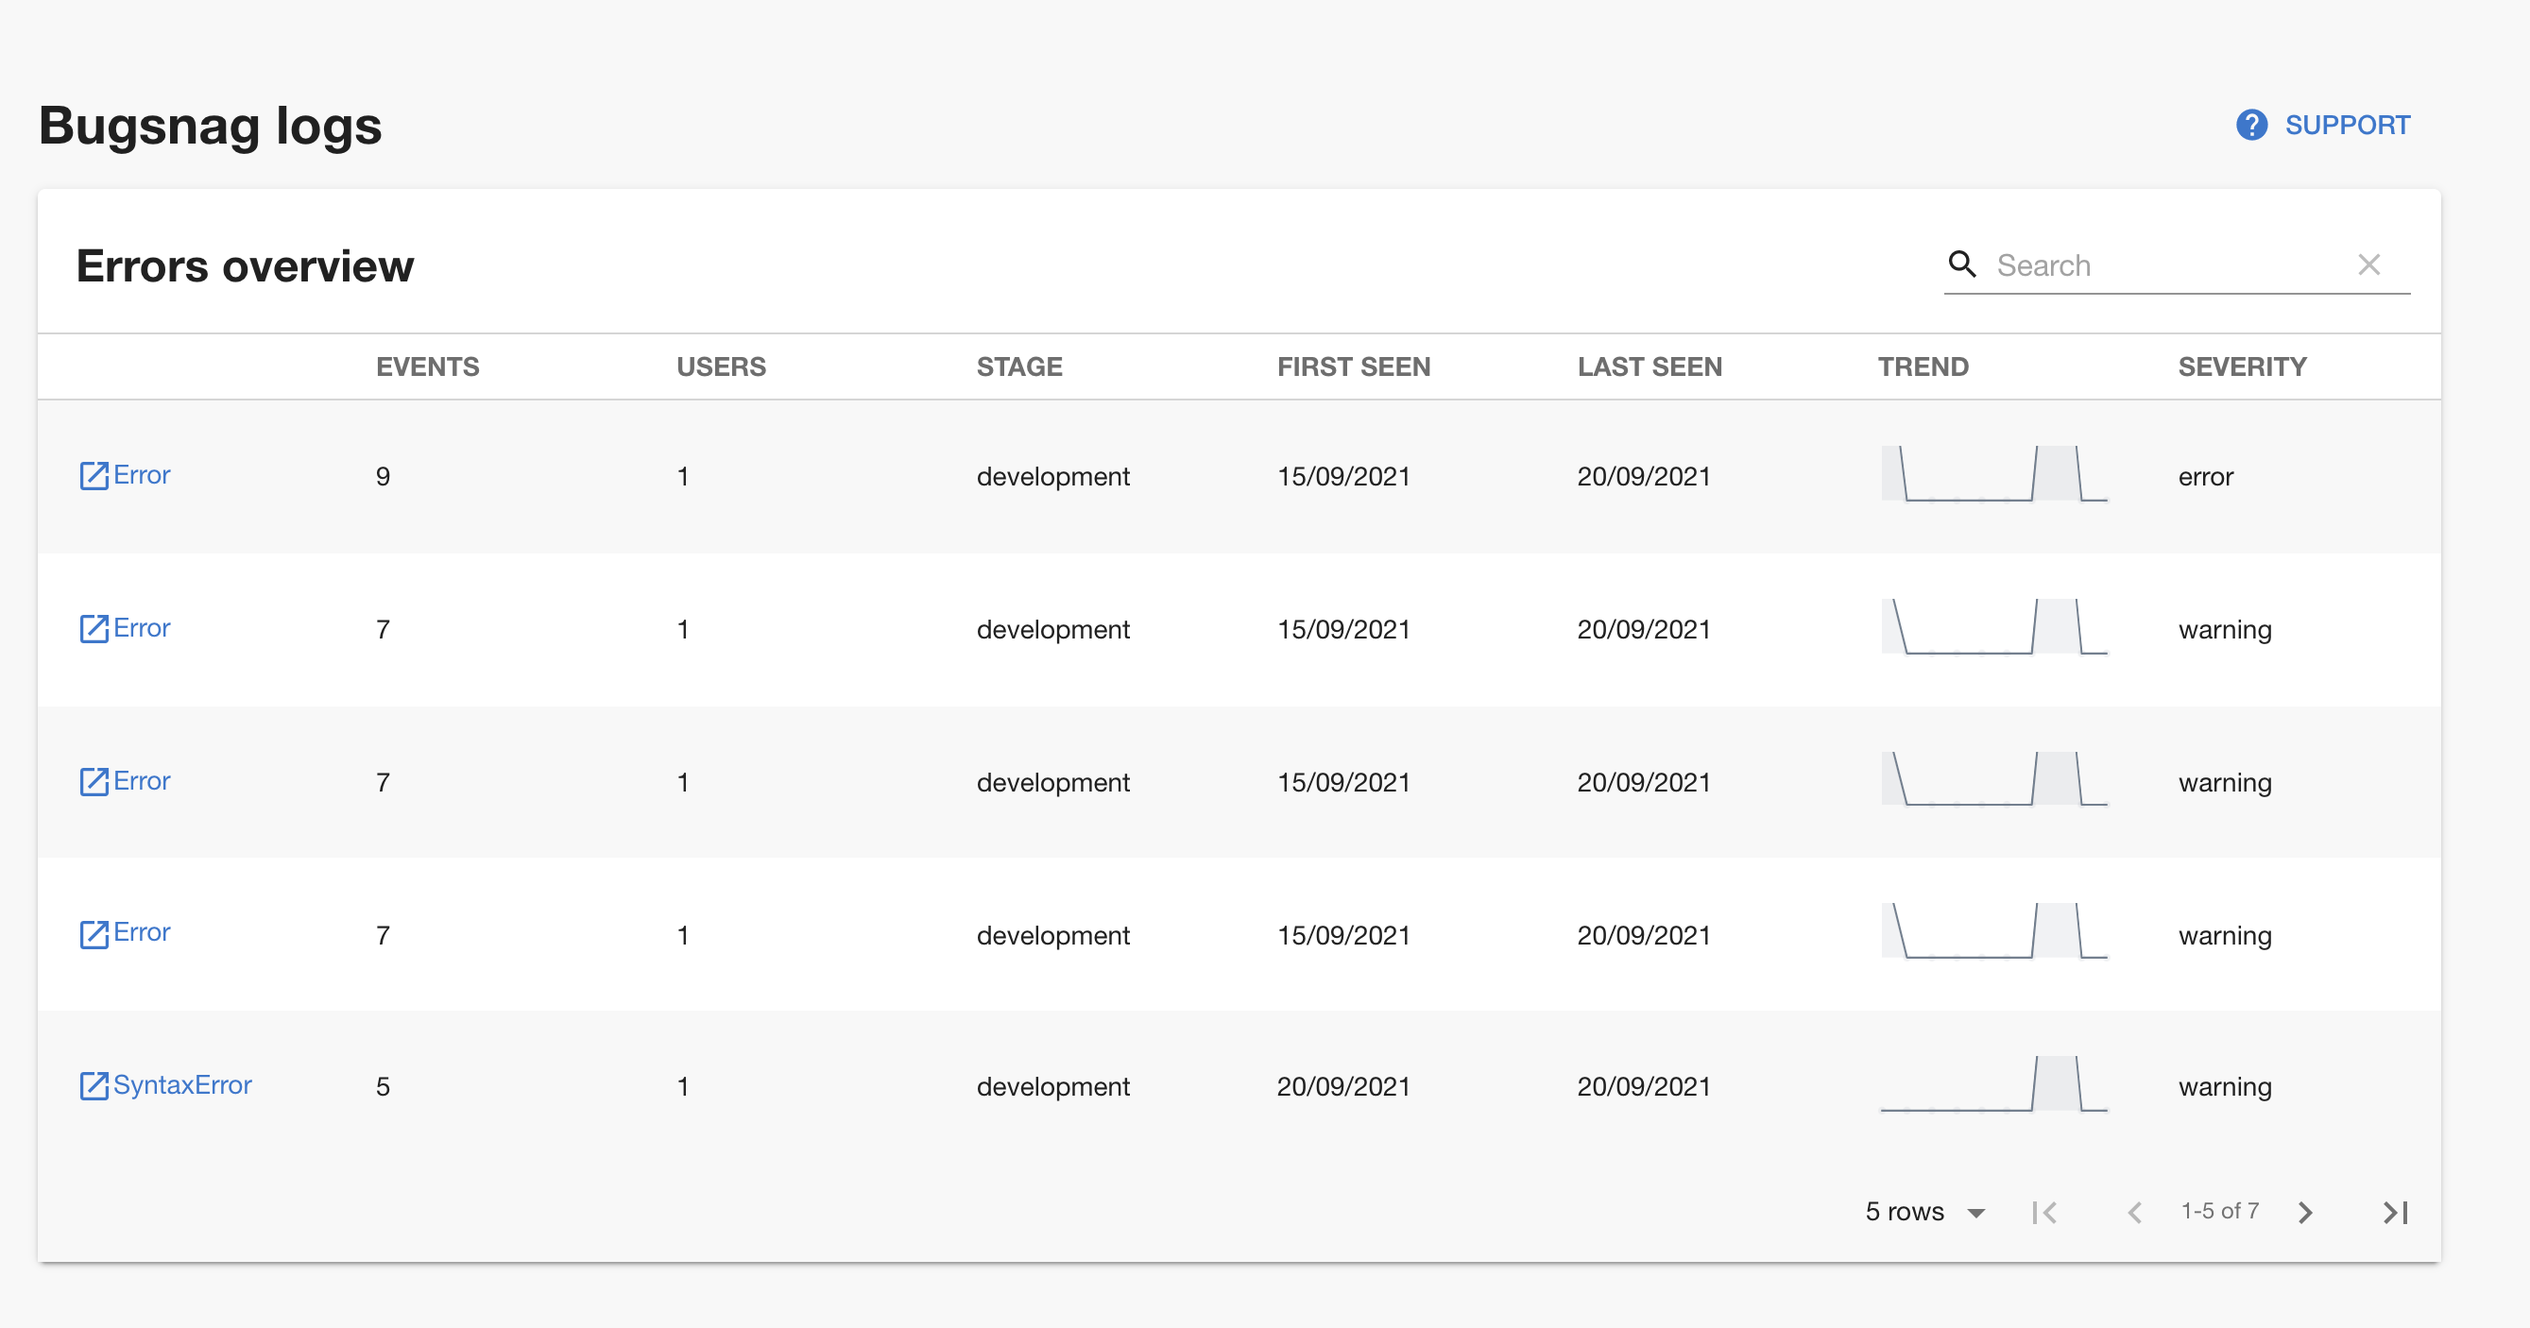
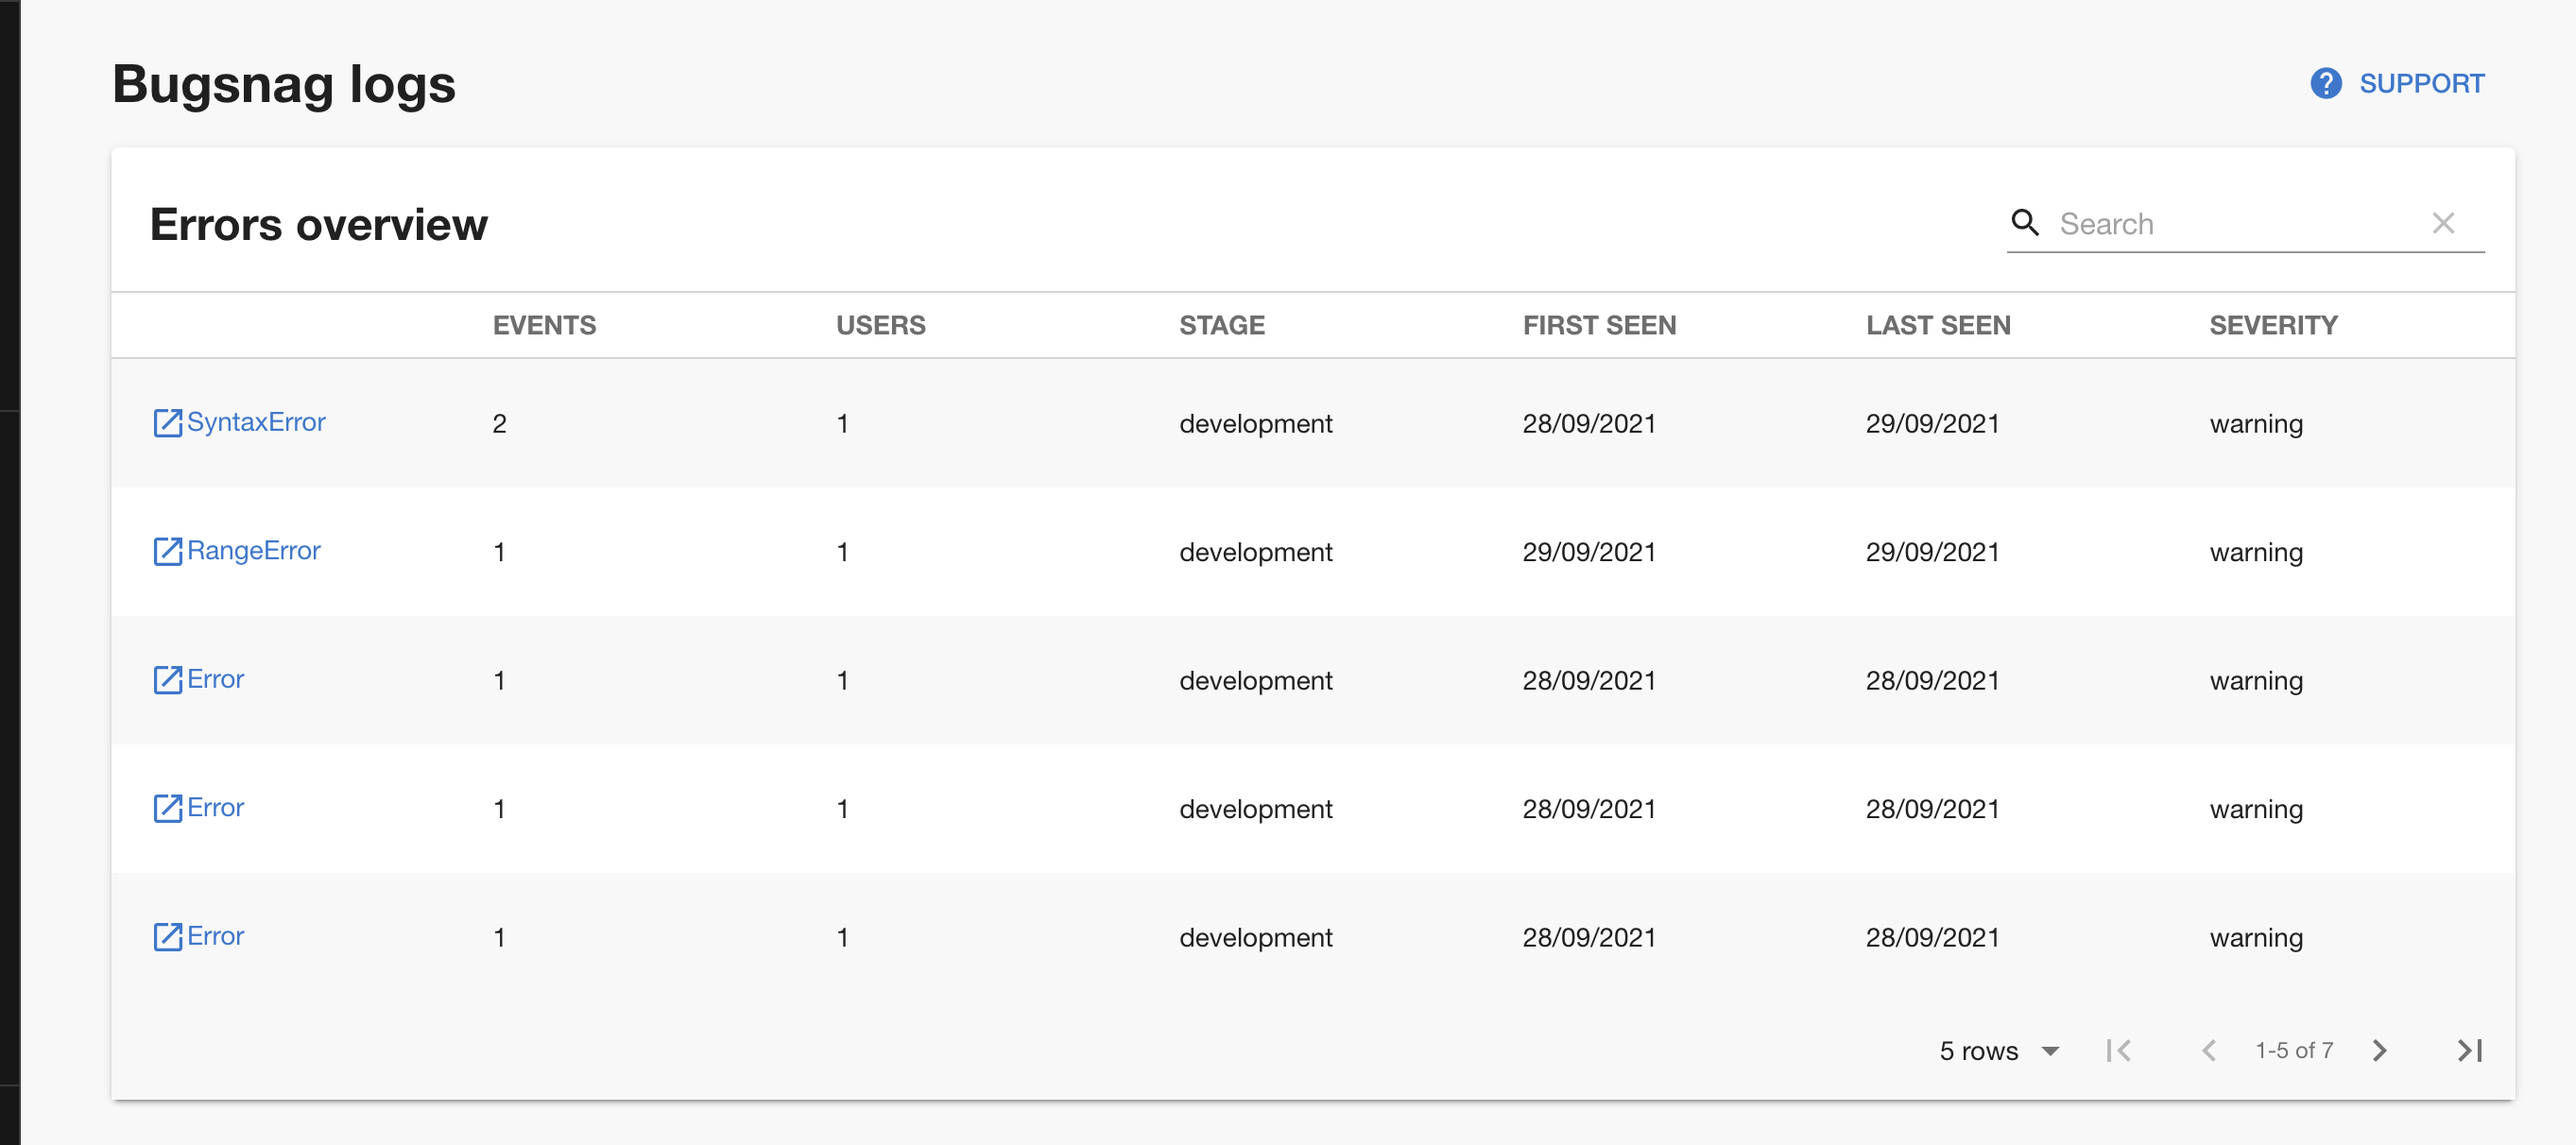
Remove trends from bugsnag

diff --git a/plugins/backstage-plugin-bugsnag/src/api/BugsnagClient.ts b/plugins/backstage-plugin-bugsnag/src/api/BugsnagClient.ts
@@ -14,7 +14,7 @@
  * limitations under the License.
  */
 import { BugsnagApi } from './BugsnagApi';
-import { BugsnagError, Organisation, Project, TrendData } from './types';
+import { BugsnagError, Organisation, Project } from './types';
 import { DiscoveryApi } from '@backstage/core-plugin-api';
 
 const DEFAULT_PROXY_PATH = '/bugsnag/api';
@@ -47,17 +47,6 @@ export class BugsnagClient implements BugsnagApi {
       throw new Error(payload.errors[0]);
     }
     return payload;
-  }
-
-  async fetchTrends(projectId: string, errorId: string): Promise<TrendData[]> {
-    const response = await fetch(
-      `${await this.getApiUrl()}/projects/${projectId}/errors/${errorId}/trend?&buckets_count=10`,
-    );
-    const payload = await response.json();
-    if (!response.ok) {
-      throw new Error(payload.errors[0]);
-    }
-    return await payload;
   }
 
   async fetchProjects(organisationId: string): Promise<Project[]> {

diff --git a/plugins/backstage-plugin-bugsnag/src/components/ErrorsTableComponent/ErrorsTable.tsx b/plugins/backstage-plugin-bugsnag/src/components/ErrorsTableComponent/ErrorsTable.tsx
@@ -23,7 +23,6 @@ import { makeStyles } from '@material-ui/core';
 import { useAsync } from 'react-use';
 import { bugsnagApiRef } from '../..';
 import { BugsnagError, Project } from '../../api/types';
-import { ErrorGraph } from '../ErrorGraph/ErrorGraph';
 import { DateTime } from 'luxon';
 
 const useStyles = makeStyles({
@@ -56,10 +55,6 @@ export const DenseTable = ({ errors, organisationName, projectName }: { errors: 
     { title: 'Stage', field: 'stage' },
     { title: 'First seen', field: 'first_seen' },
     { title: 'Last seen', field: 'last_seen' },
-    {
-      title: 'Trend',
-      render: data => <ErrorGraph bugsnagError={data as BugsnagError} />,
-    },
     { title: 'Severity', field: 'severity' },
   ];
 

diff --git a/plugins/backstage-plugin-bugsnag/src/api/BugsnagApi.ts b/plugins/backstage-plugin-bugsnag/src/api/BugsnagApi.ts
@@ -15,7 +15,7 @@
  */
 
 import { createApiRef } from '@backstage/core-plugin-api';
-import { BugsnagError, Organisation, Project, TrendData } from './types';
+import { BugsnagError, Organisation, Project } from './types';
 
 export const bugsnagApiRef = createApiRef<BugsnagApi>({
   id: 'plugin.bugsnag.service',
@@ -24,7 +24,6 @@ export const bugsnagApiRef = createApiRef<BugsnagApi>({
 
 export interface BugsnagApi {
   fetchErrors(projectId:string): Promise<BugsnagError[]>;
-  fetchTrends(projectId: string, errorId: string): Promise<TrendData[]>;
   fetchOrganisations(): Promise<Organisation[]>;
   fetchProjects(organisationId: string): Promise<Project[]>;
 }

diff --git a/plugins/backstage-plugin-bugsnag/src/api/types.ts b/plugins/backstage-plugin-bugsnag/src/api/types.ts
@@ -38,9 +38,3 @@ export type Project = {
   slug: string;
   name: string;
 };
-
-export type TrendData = {
-  from:string,
-  to:string,
-  events_count: number
-}

diff --git a/plugins/backstage-plugin-bugsnag/README.md b/plugins/backstage-plugin-bugsnag/README.md
@@ -2,6 +2,8 @@
 
 ![a preview of the Bugsnag plugin](https://raw.githubusercontent.com/RoadieHQ/roadie-backstage-plugins/main/plugins/backstage-plugin-bugsnag/docs/backstage-bugsnag-plugin.png)
 
+Since Bugsnag has a policy around API rate limits (https://bugsnagapiv2.docs.apiary.io/#introduction/rate-limiting), we are not displaying error trends in the table. However, you can visit error details page in Bugsnag for more details, including error trend.
+
 ## Features
 
 - Bugsnag plugin errors overview tab.
